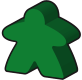
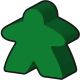
Fix meeple white line artifacts and city_top_bottom_flowers tile rotation
Remove white left-edge column from black, green, and pink meeple images.
Fix rotationOffset for city_top_bottom_flowers tile (image already has
cities on top/bottom, matching Kotlin definition — no rotation needed).

diff --git a/frontend/src/components/tileImages.ts b/frontend/src/components/tileImages.ts
@@ -26,8 +26,8 @@ const TILE_IMAGE_MAP: Record<string, TileImageInfo> = {
   city_narrow: { file: 'Base_Game_C2_Tile_G.png', rotationOffset: 0 },
   // H
   city_left_right: { file: 'Base_Game_C2_Tile_H.png', rotationOffset: 0 },
-  // H (garden) - image has cities L/R, Kotlin defines T/B
-  city_top_bottom_flowers: { file: 'Abbot-Base_Game_C2_Tile_H_Garden.png', rotationOffset: 1 },
+  // H (garden) - image has cities T/B, matching Kotlin definition
+  city_top_bottom_flowers: { file: 'Abbot-Base_Game_C2_Tile_H_Garden.png', rotationOffset: 0 },
   // I
   city_top_right: { file: 'Base_Game_C2_Tile_I.png', rotationOffset: 0 },
   // I (garden) - image has cities T/L, matching Kotlin definition
